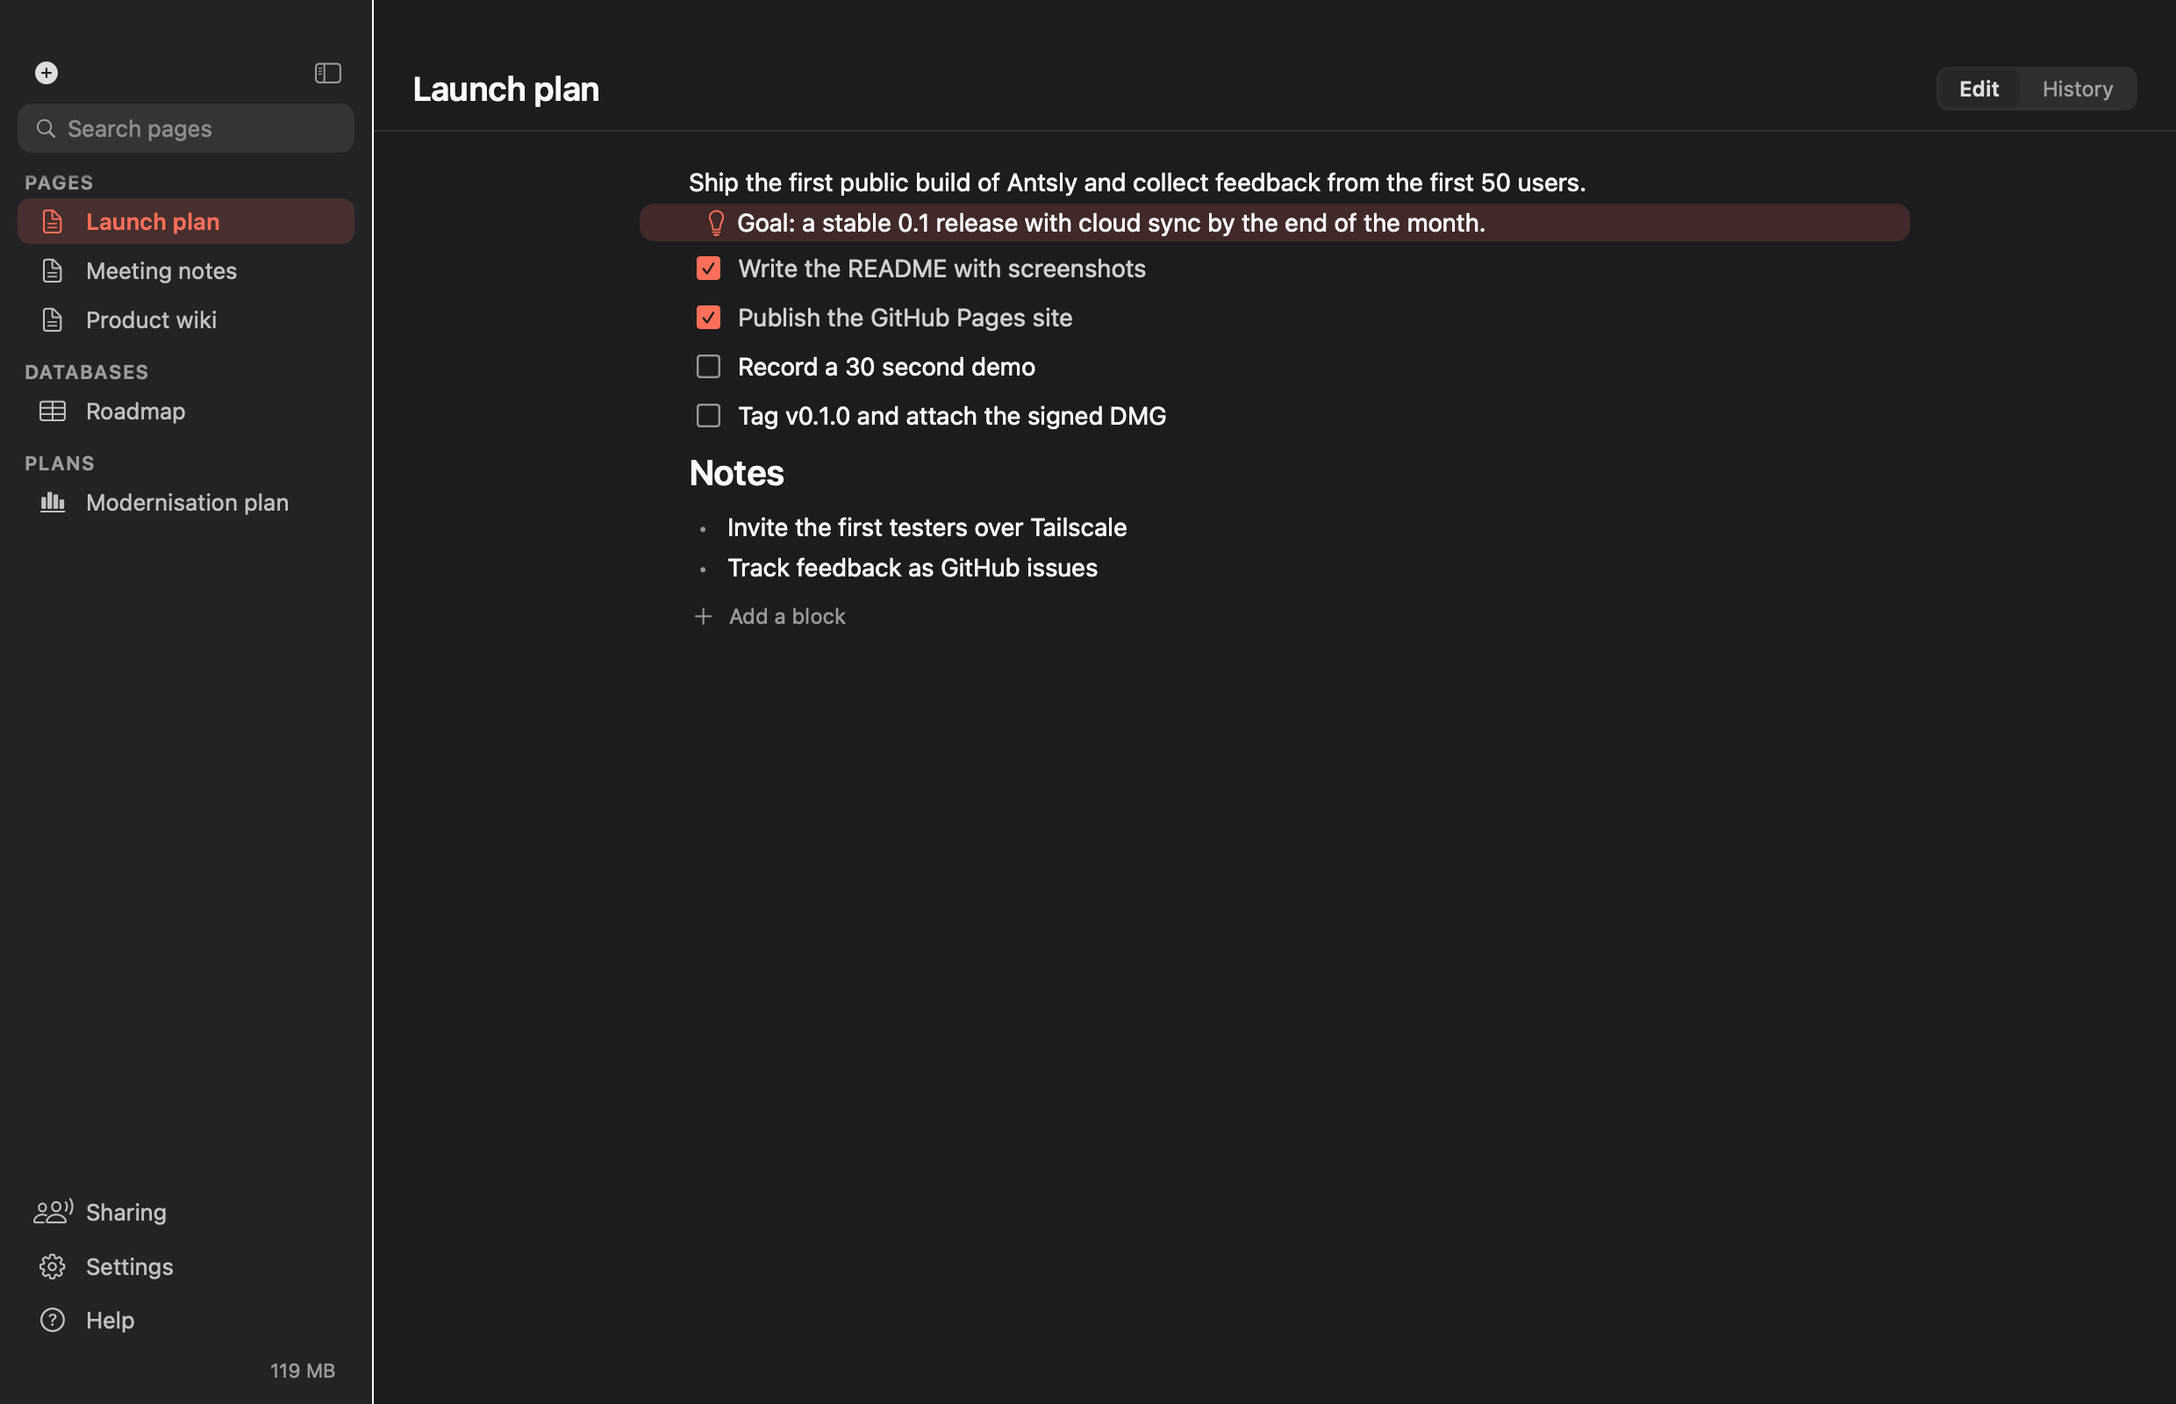
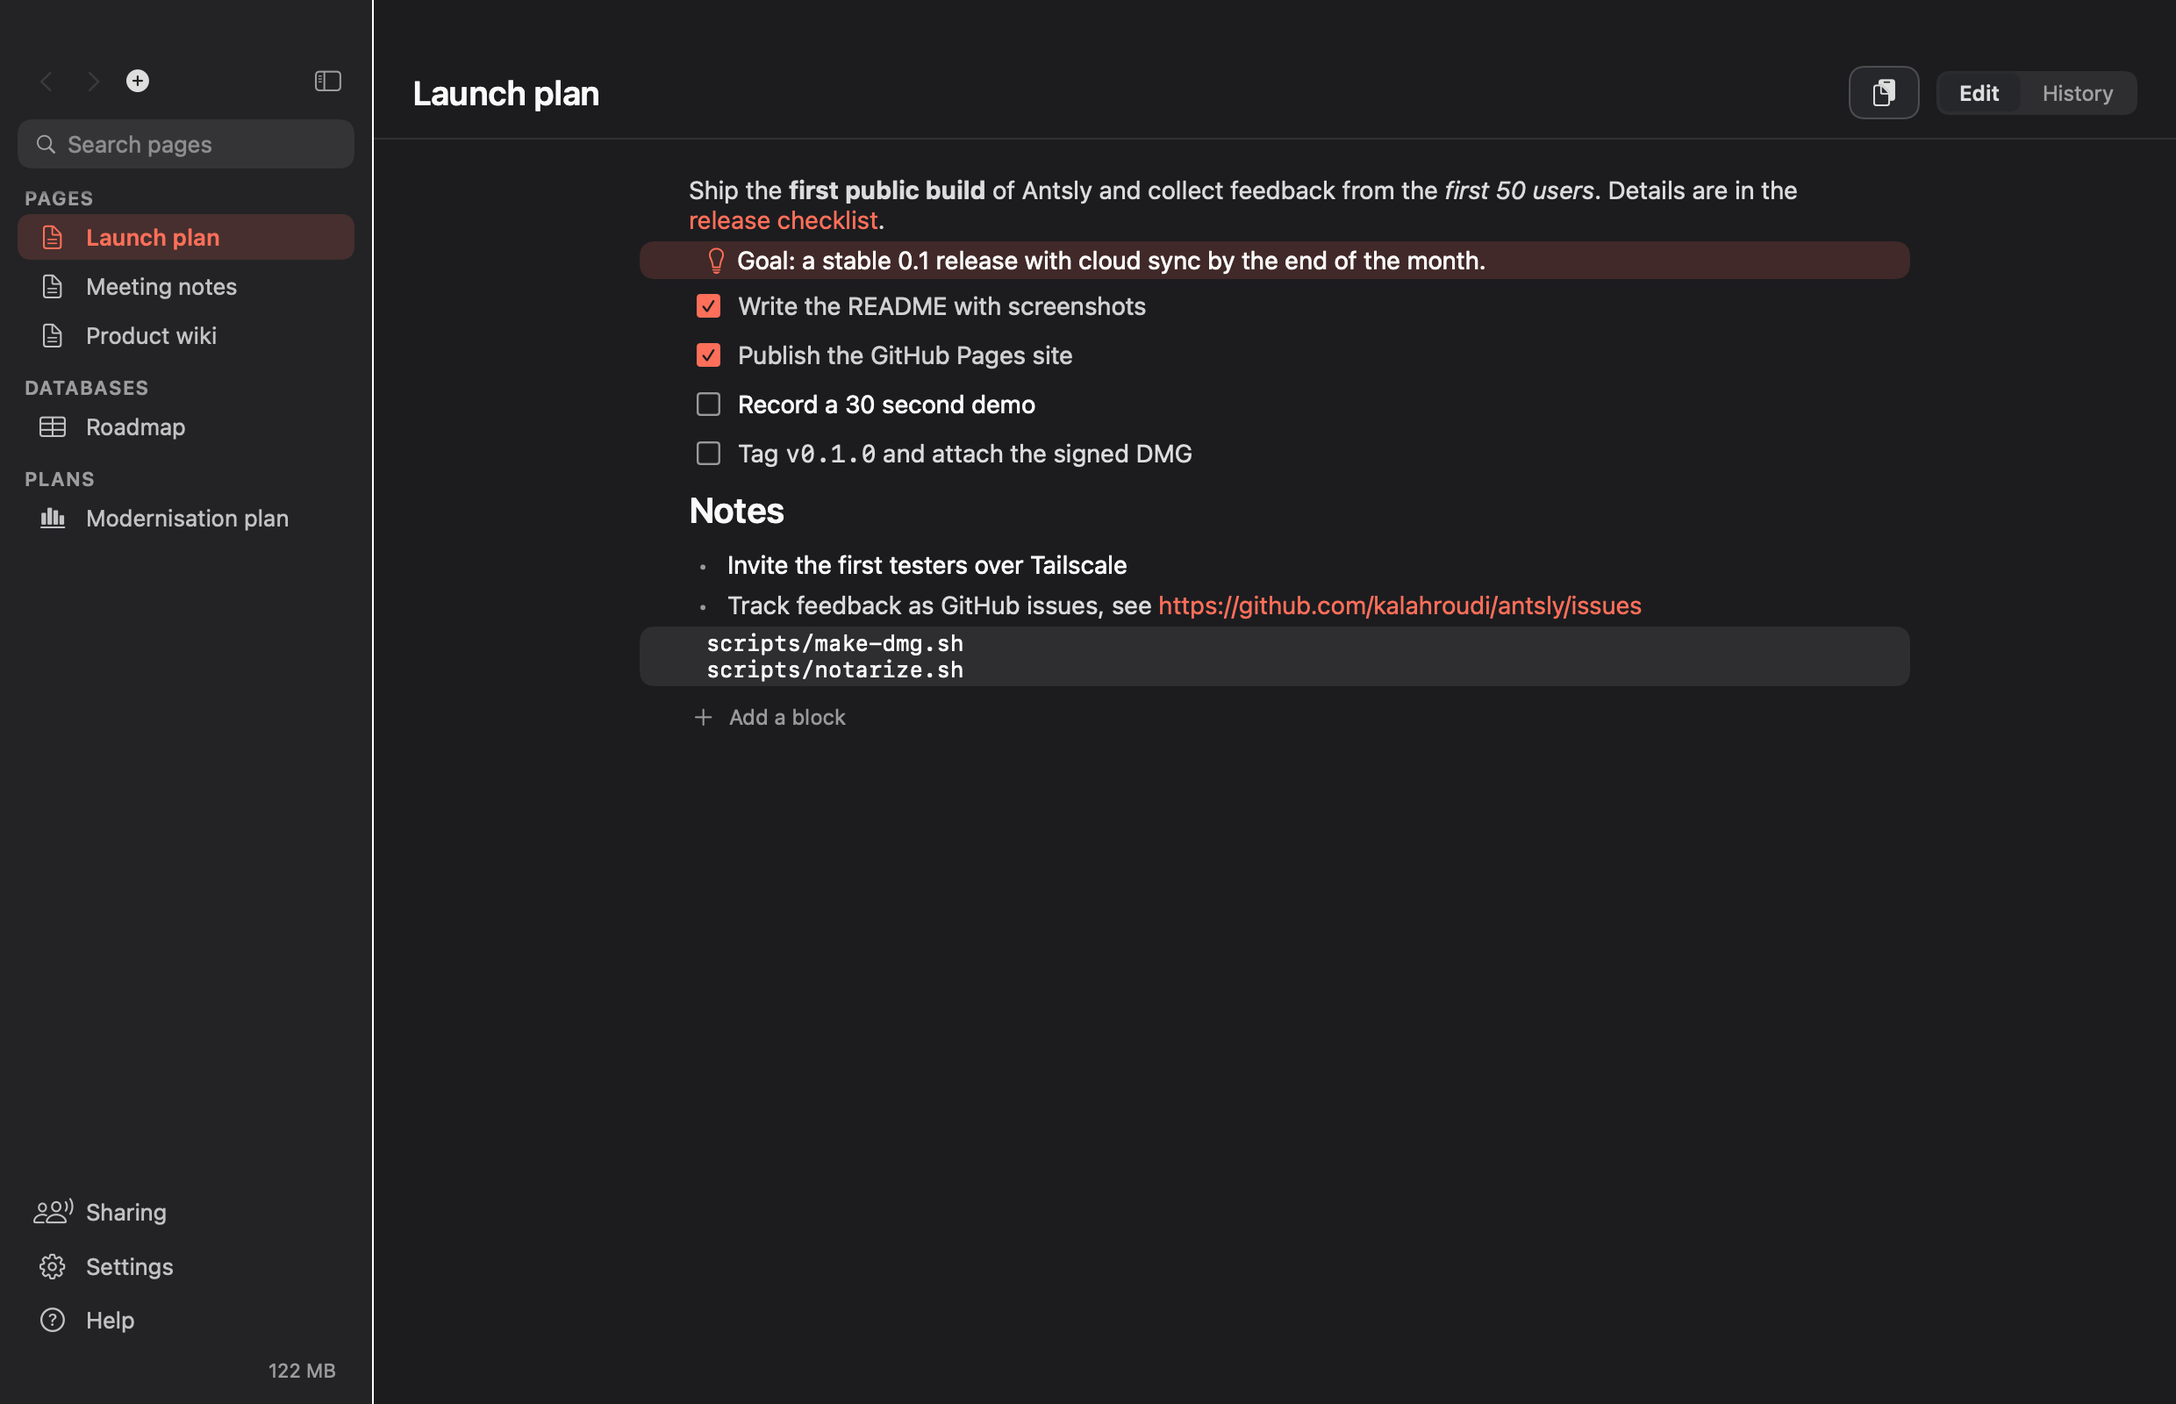
Render rich text on pages
Text blocks show bold, italic, strikethrough, inline code and links when
not being edited, with bare web addresses linked. Clicking switches to
the Markdown source. Pasted or dropped HTML from the web or mail is
converted to Markdown. Code blocks get a copy button.

diff --git a/Sources/Antsly/PageView.swift b/Sources/Antsly/PageView.swift
@@ -67,7 +67,7 @@ struct PageView: View {
             .padding(.horizontal, 28).padding(.vertical, 18)
             .frame(maxWidth: 780, alignment: .leading).frame(maxWidth: .infinity)
         }
-        .onDrop(of: [.fileURL, .image, .plainText], isTargeted: $targeted) { drop($0) }
+        .onDrop(of: [.fileURL, .image, .html, .plainText], isTargeted: $targeted) { drop($0) }
         .overlay { if targeted && !readOnly { RoundedRectangle(cornerRadius: 10).stroke(Theme.accent, style: StrokeStyle(lineWidth: 2, dash: [6])).padding(6).allowsHitTesting(false) } }
     }
 
@@ -94,6 +94,7 @@ struct PageView: View {
             for p in providers {
                 if p.hasItemConformingToTypeIdentifier(UTType.fileURL.identifier), let u = await Self.loadFileURL(p) { files.append(u) }
                 else if p.hasItemConformingToTypeIdentifier(UTType.image.identifier), let d = await Self.loadImage(p) { images.append(d) }
+                else if p.hasItemConformingToTypeIdentifier(UTType.html.identifier), let h = await Self.loadHTML(p), let md = RichPaste.markdown(fromHTML: h) { texts.append(md) }
                 else if p.canLoadObject(ofClass: NSString.self), let t = await Self.loadString(p) { texts.append(t) }
             }
             ingest(text: texts.isEmpty ? nil : texts.joined(separator: "\n\n"), files: files, images: images)
@@ -104,7 +105,8 @@ struct PageView: View {
     private func pasteAndOrganise() {
         let pb = NSPasteboard.general
         let urls = (pb.readObjects(forClasses: [NSURL.self], options: [.urlReadingFileURLsOnly: true]) as? [URL]) ?? []
-        let text = urls.isEmpty ? pb.string(forType: .string) : nil
+        let html = pb.string(forType: .html).flatMap { RichPaste.markdown(fromHTML: $0) }
+        let text = urls.isEmpty ? (html ?? pb.string(forType: .string)) : nil
         var images: [Data] = []
         if urls.isEmpty, text == nil, let img = NSImage(pasteboard: pb), let png = Self.png(img) { images = [png] }
         if urls.isEmpty, text == nil, images.isEmpty { AppModel.shared.show("Nothing to paste.", error: true); return }
@@ -137,6 +139,10 @@ struct PageView: View {
         let data: Data? = await withCheckedContinuation { c in p.loadDataRepresentation(forTypeIdentifier: UTType.image.identifier) { d, _ in c.resume(returning: d) } }
         return data.flatMap { NSImage(data: $0) }.flatMap(png)
     }
+    private static func loadHTML(_ p: NSItemProvider) async -> String? {
+        let data: Data? = await withCheckedContinuation { c in p.loadDataRepresentation(forTypeIdentifier: UTType.html.identifier) { d, _ in c.resume(returning: d) } }
+        return data.map { String(decoding: $0, as: UTF8.self) }
+    }
     private static func loadString(_ p: NSItemProvider) async -> String? {
         await withCheckedContinuation { c in _ = p.loadObject(ofClass: NSString.self) { o, _ in c.resume(returning: o as? String) } }
     }
@@ -159,6 +165,7 @@ struct BlockRow: View {
     let collab = Collab.shared
     @State private var hover = false
     @State private var confirmDelete = false
+    @State private var editing = false      // a tap on rendered text switches that block to its Markdown source
 
     private var block: Block? { ws.page(pageID)?.blocks.first { $0.id == blockID } }
     private var slash: Bool { (block?.text ?? "").hasPrefix("/") }
@@ -170,13 +177,16 @@ struct BlockRow: View {
                 HStack(alignment: .firstTextBaseline, spacing: 6) {
                     handle(b)
                     lead(b)
-                    if b.kind.isAsset { AssetBlock(block: b) } else {
+                    if b.kind.isAsset { AssetBlock(block: b) }
+                    else if showsRendered(b) { rendered(b) }
+                    else {
                     TextField("Type / for blocks", text: Binding(get: { block?.text ?? "" }, set: { v in ws.editPage(pageID) { p in if let i = p.blocks.firstIndex(where: { $0.id == blockID }) { p.blocks[i].text = v } } }), axis: .vertical)
                         .textFieldStyle(.plain)
                         .font(font(b.kind))
                         .foregroundStyle(b.kind == .todo && b.checked ? Color.secondary : Color.primary)
                         .strikethrough(b.kind == .todo && b.checked)
                         .focused(focus, equals: blockID)
+                        .onAppear { if editing { focus.wrappedValue = blockID } }
                         .disabled(readOnly)
                         .onSubmit { addAfter(b) }
                         .onKeyPress(.delete) { if b.text.isEmpty, (ws.page(pageID)?.blocks.count ?? 0) > 1 { remove(); return .handled }; return .ignored }
@@ -187,12 +197,30 @@ struct BlockRow: View {
                     }
                 }
                 .padding(.vertical, b.kind == .heading ? 6 : 2)
-                .padding(.horizontal, b.kind == .callout ? 10 : 0)
+                .padding(.horizontal, b.kind == .callout ? 10 : (b.kind == .code ? 10 : 0))
+                .overlay(alignment: .topTrailing) { if b.kind == .code && hover { CopyButton(text: b.text, label: "Copy code").padding(6) } }
                 .background(b.kind == .callout ? Theme.accentSoft : (b.kind == .code ? Theme.fill : .clear), in: RoundedRectangle(cornerRadius: 8))
                 if slash && !readOnly { slashMenu(b) }
             }
             .onHover { hover = $0 }
+            .onChange(of: focus.wrappedValue) { _, new in if new != blockID { editing = false } }
         }
+    }
+
+    /// Formatted text when the block is not being edited. Empty blocks and code stay as editable fields.
+    private func showsRendered(_ b: Block) -> Bool {
+        guard b.kind != .code, !b.text.isEmpty, InlineMarkdown.hasMarkup(b.text) || readOnly else { return false }
+        return readOnly || (!editing && focus.wrappedValue != blockID)
+    }
+
+    private func rendered(_ b: Block) -> some View {
+        Text(InlineMarkdown.attributed(b.text)).font(font(b.kind))
+            .foregroundStyle(b.kind == .todo && b.checked ? Color.secondary : Color.primary)
+            .strikethrough(b.kind == .todo && b.checked)
+            .tint(Theme.accent)
+            .frame(maxWidth: .infinity, alignment: .leading).contentShape(Rectangle())
+            .onTapGesture { if !readOnly { editing = true } }
+            .help(readOnly ? "" : "Click to edit")
     }
 
     @ViewBuilder private func lead(_ b: Block) -> some View {

diff --git a/Sources/Antsly/RichPaste.swift b/Sources/Antsly/RichPaste.swift
@@ -1,0 +1,46 @@
+// SPDX-License-Identifier: Apache-2.0
+
+import AppKit
+
+/// Turns copied web or mail content (HTML) into the Markdown pages use, keeping bold, italic, code, links and lists.
+@MainActor enum RichPaste {
+    static func markdown(fromHTML html: String) -> String? {
+        guard let data = html.data(using: .utf8),
+              let a = try? NSAttributedString(data: data, options: [.documentType: NSAttributedString.DocumentType.html, .characterEncoding: String.Encoding.utf8.rawValue], documentAttributes: nil),
+              a.length > 0 else { return nil }
+        let ns = a.string as NSString
+        var out = ""
+        a.enumerateAttributes(in: NSRange(location: 0, length: a.length)) { attrs, range, _ in
+            let font = attrs[.font] as? NSFont
+            let traits = font.map { NSFontManager.shared.traits(of: $0) } ?? []
+            let mono = font?.isFixedPitch ?? false
+            let link = (attrs[.link] as? URL)?.absoluteString ?? (attrs[.link] as? String)
+            let strike = (attrs[.strikethroughStyle] as? Int ?? 0) != 0
+            // Markers wrap each line of the run on its own, so they never straddle a line break.
+            let pieces = ns.substring(with: range).components(separatedBy: "\n").map { line -> String in
+                let core = line.trimmingCharacters(in: .whitespaces)
+                guard !core.isEmpty else { return line }
+                var t = core
+                if mono { t = "`\(t)`" }
+                if traits.contains(.boldFontMask), !mono { t = "**\(t)**" }
+                if traits.contains(.italicFontMask), !mono { t = "*\(t)*" }
+                if strike { t = "~~\(t)~~" }
+                if let link, link.hasPrefix("http") { t = "[\(core)](\(link))" }
+                let lead = line.prefix { $0 == " " || $0 == "\t" }, trail = line.reversed().prefix { $0 == " " || $0 == "\t" }
+                return lead + t + String(trail.reversed())
+            }
+            out += pieces.joined(separator: "\n")
+        }
+        // Lists come through as "\t•\titem" and non-breaking spaces; tidy both and collapse blank runs.
+        var lines = out.replacingOccurrences(of: "\u{00A0}", with: " ").components(separatedBy: "\n").map { line -> String in
+            let t = line.trimmingCharacters(in: .whitespaces)
+            if t.hasPrefix("•") { return "- " + t.dropFirst().trimmingCharacters(in: .whitespaces) }
+            return t
+        }
+        var cleaned: [String] = []
+        for l in lines { if l.isEmpty, cleaned.last?.isEmpty ?? true { continue }; cleaned.append(l) }
+        lines = cleaned
+        let md = lines.joined(separator: "\n").trimmingCharacters(in: .whitespacesAndNewlines)
+        return md.isEmpty ? nil : md
+    }
+}

diff --git a/Sources/Antsly/Snapshot.swift b/Sources/Antsly/Snapshot.swift
@@ -91,13 +91,13 @@ struct PopoverShot: View {
         let c = Calendar(identifier: .gregorian)
         func d(_ mo: Int, _ y: Int = 2026) -> Date { c.date(from: DateComponents(timeZone: TimeZone(identifier: "UTC"), year: y, month: mo, day: 1))! }
         let launch = Page(id: "launch", title: "Launch plan", blocks: [
-            Block(kind: .text, text: "Ship the first public build of Antsly and collect feedback from the first 50 users."),
+            Block(kind: .text, text: "Ship the **first public build** of Antsly and collect feedback from the *first 50 users*. Details are in the [release checklist](https://github.com/kalahroudi/antsly)."),
             Block(kind: .callout, text: "Goal: a stable 0.1 release with cloud sync by the end of the month."),
             Block(kind: .todo, text: "Write the README with screenshots", checked: true),
             Block(kind: .todo, text: "Publish the GitHub Pages site", checked: true),
             Block(kind: .todo, text: "Record a 30 second demo"),
-            Block(kind: .todo, text: "Tag v0.1.0 and attach the signed DMG"),
-            Block(kind: .heading, text: "Notes"), Block(kind: .bullet, text: "Invite the first testers over Tailscale"), Block(kind: .bullet, text: "Track feedback as GitHub issues")])
+            Block(kind: .todo, text: "Tag `v0.1.0` and attach the signed DMG"),
+            Block(kind: .heading, text: "Notes"), Block(kind: .bullet, text: "Invite the first testers over Tailscale"), Block(kind: .bullet, text: "Track feedback as GitHub issues, see https://github.com/kalahroudi/antsly/issues"), Block(kind: .code, text: "scripts/make-dmg.sh\nscripts/notarize.sh")])
         let meet = Page(id: "meet", title: "Meeting notes", blocks: [Block(kind: .text, text: "Weekly sync.")])
         let wiki = Page(id: "wiki", title: "Product wiki", blocks: [Block(kind: .text, text: "How Antsly works.")])
         var roadmap = Database.tasks(title: "Roadmap")

diff --git a/Sources/AntslyKit/InlineMarkdown.swift b/Sources/AntslyKit/InlineMarkdown.swift
@@ -1,0 +1,34 @@
+// SPDX-License-Identifier: Apache-2.0
+
+import Foundation
+
+/// Inline formatting for page text: **bold**, *italic*, ~~strike~~, `code` and [links](https://example.com).
+/// Pages keep the plain Markdown; this only decides how a block looks when it is not being edited.
+public enum InlineMarkdown {
+    /// Bare web addresses become links. Ones already inside a Markdown link or in `code` are left alone.
+    static func linkify(_ s: String) -> String {
+        guard s.contains("http") else { return s }
+        let pattern = #"(?<![(\]`])\bhttps?://[^\s)<>\]`]+"#
+        guard let re = try? NSRegularExpression(pattern: pattern) else { return s }
+        var out = s
+        for m in re.matches(in: s, range: NSRange(s.startIndex..., in: s)).reversed() {
+            guard let r = Range(m.range, in: out) else { continue }
+            var url = String(out[r])
+            var tail = ""
+            while let last = url.last, ".,;:!?".contains(last) { tail = String(last) + tail; url.removeLast() }
+            out.replaceSubrange(r, with: "[\(url)](\(url))\(tail)")
+        }
+        return out
+    }
+
+    /// True when the text has anything worth rendering. Plain text skips the parser.
+    public static func hasMarkup(_ s: String) -> Bool {
+        s.contains("*") || s.contains("`") || s.contains("~~") || s.contains("](") || s.contains("http") || s.contains("_")
+    }
+
+    /// Text that does not parse as Markdown comes back as it was written, never as an error.
+    public static func attributed(_ s: String) -> AttributedString {
+        let opts = AttributedString.MarkdownParsingOptions(interpretedSyntax: .inlineOnlyPreservingWhitespace, failurePolicy: .returnPartiallyParsedIfPossible)
+        return (try? AttributedString(markdown: linkify(s), options: opts)) ?? AttributedString(s)
+    }
+}

diff --git a/Tests/AntslyKitTests/WorkspaceTests.swift b/Tests/AntslyKitTests/WorkspaceTests.swift
@@ -244,4 +244,21 @@ final class UndoTests: XCTestCase {
         XCTAssertEqual(back.blocks.map(\.kind), [.image, .file, .text]); XCTAssertEqual(back.blocks.map(\.text), ["assets/shot.png", "assets/plan.pdf", "after"])
         XCTAssertEqual(back.blocks.map(\.id), ["i", "f", "t"])
     }
+
+    // MARK: Rich rendering
+
+    func testInlineMarkdownRenders() {
+        let a = InlineMarkdown.attributed("Ship **now**, see [docs](https://example.com/a) or https://example.org/x.")
+        XCTAssertEqual(String(a.characters), "Ship now, see docs or https://example.org/x.")
+        let links = a.runs.compactMap(\.link).map(\.absoluteString)
+        XCTAssertEqual(links, ["https://example.com/a", "https://example.org/x"])   // the full stop is not part of the address
+        XCTAssertTrue(a.runs.contains { $0.inlinePresentationIntent?.contains(.stronglyEmphasized) == true })
+    }
+
+    func testInlineMarkdownLeavesOddTextAlone() {
+        XCTAssertEqual(String(InlineMarkdown.attributed("2 * 3 = 6 and snake_case_name").characters), "2 * 3 = 6 and snake_case_name")
+        XCTAssertFalse(InlineMarkdown.hasMarkup("Just a plain sentence."))
+        XCTAssertTrue(InlineMarkdown.hasMarkup("Visit https://example.com"))
+        XCTAssertEqual(InlineMarkdown.attributed("[a](https://x.io)").runs.compactMap(\.link).count, 1)   // not linkified twice
+    }
 }

diff --git a/README.md b/README.md
@@ -24,6 +24,7 @@ Never call a destructive tool without asking me first.
 ## What it does
 
 - **Pages**: a block editor with text, headings, to-dos, bullets, callouts and code. Type `/` to change a block. Pages are Markdown files.
+- **Rich text**: pages show **bold**, *italic*, `code`, links and web addresses formatted, and switch back to plain Markdown when you click to edit. Copied web and mail content keeps its formatting.
 - **Drop and paste**: drop text, images, PDFs or any file onto a page. Text is sorted into to-dos, bullets and headings at once, and "Organise with AI" refines it through your own Claude Code. Files are copied into `assets/`.
 - **Databases**: table and board views with typed columns (status, choice, date, person, number, checkbox, link), group edit and delete, and one-click prompts for your AI agent. Rows are JSON files.
 - **Project plans**: phases and tasks on a timeline, per-person allocation and capacity, a resource heatmap by day, week, month or year, a burnup chart (person-days, story points or tasks), a critical path and one-click status reports as a page, Markdown or PDF. Imports a Gantt Magic backup.
